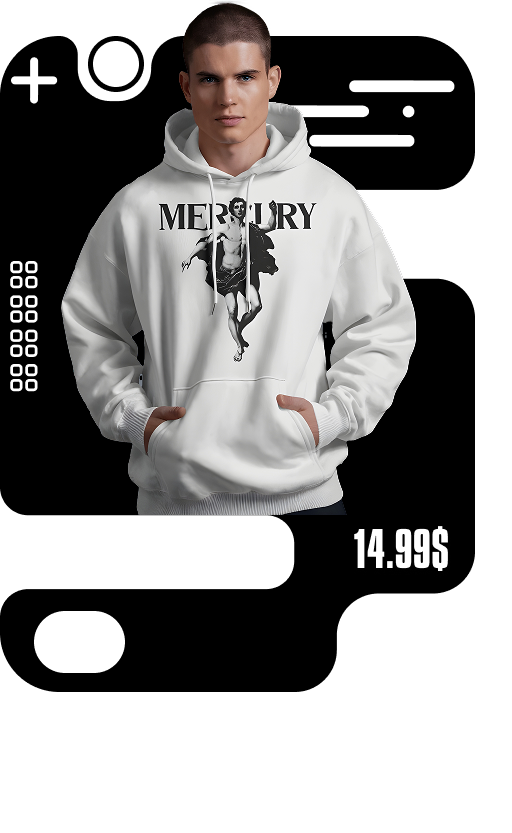
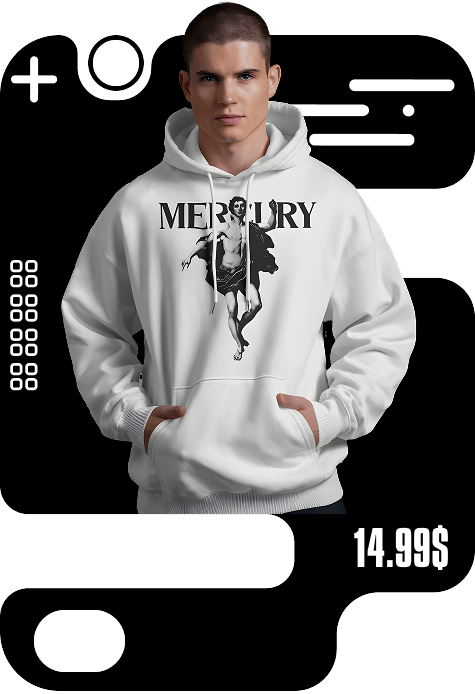
add product card 1

diff --git a/my-ecommerce-app/components/Collection/Collection.tsx b/my-ecommerce-app/components/Collection/Collection.tsx
@@ -1,25 +1,49 @@
 "use client";
-import { useState } from "react";
+import { useState, useEffect } from "react";
 import Image from "next/image";
+import { useRouter } from "next/navigation";
 import { motion, AnimatePresence } from "framer-motion";
 
 const products = [
-  { id: 1, image: "/shop/card1.png", price: "$14.99" },
-  { id: 2, image: "/shop/card1.png", price: "$19.99" },
-  { id: 3, image: "/shop/card1.png", price: "$24.99" },
+  { id: 1, image: "/shop/card1.png", price: "14.99$" },
+  { id: 2, image: "/shop/card1.png", price: "19.99$" },
+  { id: 3, image: "/shop/card1.png", price: "24.99$" },
+  { id: 4, image: "/shop/card1.png", price: "29.99$" },
+  { id: 5, image: "/shop/card1.png", price: "34.99$" },
 ];
 
 const Collection: React.FC = () => {
+  const router = useRouter(); // ✅ Next.js router for navigation
   const [selectedIndex, setSelectedIndex] = useState(0);
+  const [selectedSize, setSelectedSize] = useState<{ [key: number]: string }>({});
+  const [bookmarked, setBookmarked] = useState<{ [key: number]: boolean }>({});
+  const [cart, setCart] = useState<number[]>([]);
 
-  const nextProduct = () => {
-    setSelectedIndex((prevIndex) => (prevIndex + 1) % products.length);
+  // Auto-change product every 5 seconds
+  useEffect(() => {
+    const interval = setInterval(() => {
+      setSelectedIndex((prevIndex) => (prevIndex + 1) % products.length);
+    }, 5000);
+
+    return () => clearInterval(interval);
+  }, []);
+
+  const handleAddToCart = (productId: number) => {
+    setCart((prevCart) => [...prevCart, productId]);
+    console.log("Added to Cart:", productId, "Size:", selectedSize[productId] || "None");
   };
 
-  const prevProduct = () => {
-    setSelectedIndex((prevIndex) =>
-      prevIndex === 0 ? products.length - 1 : prevIndex - 1
-    );
+  const handleSizeSelect = (productId: number, size: string) => {
+    setSelectedSize((prev) => ({ ...prev, [productId]: size }));
+  };
+
+  const toggleBookmark = (productId: number) => {
+    setBookmarked((prev) => ({ ...prev, [productId]: !prev[productId] }));
+  };
+
+  // ✅ Click function to navigate to product page
+  const handleProductClick = (productId: number) => {
+    router.push(`/product/${productId}`); // Navigate to product details page
   };
 
   return (
@@ -31,71 +55,131 @@ const Collection: React.FC = () => {
 
       {/* Product Selection Container */}
       <div className="relative w-full flex items-center justify-center">
-        {/* Left Button */}
-        <button
-          className="absolute left-4 z-20 px-4 py-2 bg-black text-white rounded-full"
-          onClick={prevProduct}
-        >
-          ◀
-        </button>
-
-        {/* Card Container */}
-        <div className="relative w-full max-w-lg h-[500px] flex items-center justify-center">
+        <div className="relative w-full max-w-lg h-[500px] flex items-center justify-center mt-10 perspective-1000">
           <AnimatePresence>
             {products.map((product, index) => {
-              const position =
-                (index - selectedIndex + products.length) % products.length;
+              const position = (index - selectedIndex + products.length) % products.length;
 
               let scale = 1;
               let zIndex = 1;
-              let opacity = 1;
+              let opacity = 0;
               let xOffset = 0;
+              let rotation = 0;
+              let showButtons = false;
 
               if (position === 0) {
-                scale = 1.2; // Center card is bigger
+                scale = 1.2;
                 zIndex = 10;
-              } else if (position === 1 || position === products.length - 1) {
-                scale = 0.9; // Side cards are smaller
-                zIndex = 5;
+                opacity = 1;
+                showButtons = true;
+                rotation = 0;
+              } else if (position === 1) {
+                scale = 0.9;
+                zIndex = 6;
                 opacity = 0.6;
-                xOffset = position === 1 ? 120 : -120; // Left & Right Offset
+                xOffset = -260;
+                rotation = -5;
+                showButtons = true;
+              } else if (position === 2) {
+                scale = 0.9;
+                zIndex = 6;
+                opacity = 0.6;
+                xOffset = 260;
+                rotation = 5;
+                showButtons = true;
               }
 
               return (
                 <motion.div
                   key={product.id}
-                  initial={{ opacity: 0, scale: 0.8 }}
+                  initial={{ opacity: 0, scale: 0.8, rotateY: -30 }}
                   animate={{
                     opacity,
                     scale,
                     x: xOffset,
                     zIndex,
+                    rotateY: rotation,
                   }}
-                  exit={{ opacity: 0, scale: 0.8 }}
-                  transition={{ duration: 0.5, ease: "easeInOut" }}
-                  className="absolute flex flex-col items-center"
+                  exit={{ opacity: 0, scale: 0.8, rotateY: 30 }}
+                  transition={{ duration: 0.8, ease: "easeInOut", bounce: 0.3 }}
+                  className="absolute flex flex-col items-center cursor-pointer"
+                  onClick={() => handleProductClick(product.id)} // ✅ Click event
                 >
-                  <Image
-                    src={product.image}
-                    alt="Product Image"
-                    width={300}
-                    height={400}
-                    className="rounded-lg "
-                  />
-                  <div className="mt-4 text-xl font-bold">{product.price}</div>
+                  <div className="relative">
+                    <Image
+                      src={product.image}
+                      alt="Product Image"
+                      width={350}
+                      height={450}
+                      className="rounded-lg shadow-lg"
+                    />
+
+                    {/* Price Tag */}
+                    <div className="absolute top-3 right-3 bg-black text-white px-3 py-1 text-lg font-bold rounded">
+                      {product.price}
+                    </div>
+
+                    {/* Size Selection Buttons */}
+                    {showButtons && (
+                      <div className="absolute bottom-[85px] left-[25px] flex space-x-2">
+                        {["S", "M", "L"].map((size) => (
+                          <button
+                            key={size}
+                            onClick={(e) => {
+                              e.stopPropagation(); // Prevent click from triggering page navigation
+                              handleSizeSelect(product.id, size);
+                            }}
+                            className={`w-12 h-10 flex items-center justify-center text-sm font-bold border-2 rounded-full transition ${
+                              selectedSize[product.id] === size
+                                ? "bg-black text-white"
+                                : "border-black text-black bg-white"
+                            }`}
+                          >
+                            {size}
+                          </button>
+                        ))}
+                      </div>
+                    )}
+
+                    {/* Bookmark Button */}
+                    {showButtons && (
+                      <button
+                        onClick={(e) => {
+                          e.stopPropagation();
+                          toggleBookmark(product.id);
+                        }}
+                        className="absolute bottom-[28px] left-[45px] w-6 h-6 flex items-center justify-center transition"
+                      >
+                        <Image
+                          src={bookmarked[product.id] ? "/icon/mark.png" : "/icon/mark1.png"}
+                          alt="Bookmark"
+                          width={40}
+                          height={40}
+                        />
+                      </button>
+                    )}
+
+                    {/* Cart Button */}
+                    {showButtons && (
+                      <motion.button
+                        onClick={(e) => {
+                          e.stopPropagation();
+                          handleAddToCart(product.id);
+                        }}
+                        initial={{ opacity: 0 }}
+                        animate={{ opacity: 1 }}
+                        transition={{ duration: 0.5 }}
+                        className="absolute bottom-1 right-3 px-6 py-4 bg-green-500 text-white text-sm font-bold rounded-full transition hover:bg-green-700 flex items-center justify-center"
+                      >
+                        <Image src="/icon/cart1.png" alt="Cart" width={24} height={24} />
+                      </motion.button>
+                    )}
+                  </div>
                 </motion.div>
               );
             })}
           </AnimatePresence>
         </div>
-
-        {/* Right Button */}
-        <button
-          className="absolute right-4 z-20 px-4 py-2 bg-black text-white rounded-full"
-          onClick={nextProduct}
-        >
-          ▶
-        </button>
       </div>
     </div>
   );

diff --git a/my-ecommerce-app/app/product/[id]/page.tsx b/my-ecommerce-app/app/product/[id]/page.tsx
@@ -1,0 +1,147 @@
+"use client";
+import { useState, useRef } from "react";
+import { useParams } from "next/navigation";
+import Image from "next/image";
+import Navbar from "@/app/NavBar/Navbar";
+
+const products = [
+  { id: 1, image: "/shop/card1.png", detailImage: "/shop/detail1.png", name: "Mercury Long Sleeve Sweatshirt", price: "14.99$", stock: 10, type: "Sweatshirt" },
+  { id: 2, image: "/shop/card2.png", detailImage: "/shop/detail2.png", name: "Black Hoodie", price: "19.99$", stock: 8, type: "Hoodie" },
+  { id: 3, image: "/shop/card3.png", detailImage: "/shop/detail3.png", name: "Gray Oversized Sweatshirt", price: "24.99$", stock: 5, type: "Sweatshirt" },
+  { id: 4, image: "/shop/card4.png", detailImage: "/shop/detail4.png", name: "Streetwear Hoodie", price: "29.99$", stock: 3, type: "Hoodie" },
+  { id: 5, image: "/shop/card5.png", detailImage: "/shop/detail5.png", name: "Minimalist Sweatshirt", price: "34.99$", stock: 7, type: "Sweatshirt" },
+];
+
+const ProductPage = () => {
+  const { id } = useParams();
+  const product = products.find((p) => p.id === Number(id));
+
+  const [selectedSize, setSelectedSize] = useState<string | null>(null);
+  const [quantity, setQuantity] = useState(1);
+  const [isZoomed, setIsZoomed] = useState(false);
+  const [zoomPosition, setZoomPosition] = useState({ x: 50, y: 50 });
+
+  const imageRef = useRef<HTMLDivElement>(null);
+
+  if (!product) {
+    return <div className="text-center text-2xl font-bold">Product Not Found</div>;
+  }
+
+  const handleSizeSelect = (size: string) => {
+    setSelectedSize(size);
+  };
+
+  const handleMouseMove = (e: React.MouseEvent) => {
+    if (!imageRef.current) return;
+
+    const { left, top, width, height } = imageRef.current.getBoundingClientRect();
+    const x = ((e.clientX - left) / width) * 100;
+    const y = ((e.clientY - top) / height) * 100;
+    setZoomPosition({ x, y });
+  };
+
+  return (
+    <>
+      {/* Navbar */}
+      <Navbar />
+
+      {/* Product Page Content */}
+      <div className="container mx-auto px-6 py-10 mt-16">
+        <div className="grid grid-cols-1 lg:grid-cols-2 gap-10">
+          
+          {/* Left Side - Product Image with Zoom */}
+          <div className="relative flex flex-col items-center bg-gray-100 pt-6 pr-5 rounded-lg shadow-md max-w-[400px] mx-auto">
+            <div
+              className="relative"
+              ref={imageRef}
+              onMouseEnter={() => setIsZoomed(true)}
+              onMouseLeave={() => setIsZoomed(false)}
+              onMouseMove={handleMouseMove}
+            >
+              <Image
+                src={product.detailImage}
+                alt={product.name}
+                width={400}
+                height={500}
+                className="rounded-lg"
+              />
+
+              {/* Zoom Box - Increased Zoom Effect */}
+              {isZoomed && (
+                <div
+                  className="absolute w-40 h-40 border-2 border-gray-400 shadow-lg bg-white pointer-events-none"
+                  style={{
+                    top: `${zoomPosition.y}%`,
+                    left: `${zoomPosition.x}%`,
+                    transform: "translate(-50%, -50%)",
+                    backgroundImage: `url(${product.detailImage})`,
+                    backgroundSize: "400%", // Increased Zoom Level
+                    backgroundPosition: `${zoomPosition.x}% ${zoomPosition.y}%`,
+                  }}
+                />
+              )}
+            </div>
+          </div>
+
+          {/* Right Side - Product Details */}
+          <div className="flex flex-col font-kano">
+            <h1 className="text-4xl font-normal font-kano">{product.name}</h1>
+            <p className="text-3xl font-semibold text-gray-700 mt-2">{product.price}</p>
+            <p className=" text-xl text-gray-500 mt-2">Type: {product.type}</p>
+            <p className="font-Kano text-xl text-gray-500">Stock: {product.stock} Left</p>
+
+            {/* Size Selection */}
+            <div className="mt-4">
+              <h3 className="text-lg font-semibold">SIZE:</h3>
+              <div className="flex space-x-4 mt-2">
+                {["S", "M", "L"].map((size) => (
+                  <button
+                    key={size}
+                    onClick={() => handleSizeSelect(size)}
+                    className={`w-14 h-10 flex items-center justify-center text-sm font-bold border-2 rounded-full transition ${
+                      selectedSize === size ? "bg-black text-white" : "border-black text-black bg-white"
+                    }`}
+                  >
+                    {size}
+                  </button>
+                ))}
+              </div>
+            </div>
+
+            {/* Quantity Selector */}
+            <div className="mt-6">
+              <h3 className="text-lg font-semibold">QTY:</h3>
+              <div className="flex items-center space-x-4 mt-2">
+                <button
+                  onClick={() => setQuantity((prev) => Math.max(1, prev - 1))}
+                  className="px-3 py-1 bg-gray-200 rounded-md text-lg "
+                >
+                  -
+                </button>
+                <span className="text-lg">{quantity}</span>
+                <button
+                  onClick={() => setQuantity((prev) => prev + 1)}
+                  className="px-3 py-1 bg-gray-200 rounded-md text-lg"
+                >
+                  +
+                </button>
+              </div>
+            </div>
+
+            {/* Buttons */}
+            <div className="mt-10 flex space-x-4">
+              <button className="px-6 py-3 bg-blue-600 text-white text-lg rounded-md hover:bg-blue-700 transition">
+                BUY
+              </button>
+              <button className="px-6 py-3 bg-gray-800 text-white text-lg rounded-md hover:bg-gray-900 transition">
+                ADD TO CART
+              </button>
+            </div>
+          </div>
+        </div>
+      </div>
+    </>
+  );
+};
+
+export default ProductPage;

diff --git a/my-ecommerce-app/app/NavBar/Navbar.tsx b/my-ecommerce-app/app/NavBar/Navbar.tsx
@@ -61,7 +61,7 @@ export default function Nav() {
       <Link href="/cart">
       <span className="text-[22.75px] font-normal text-black cursor-pointer relative group">
         CART
-        <span className="absolute bottom-0 left-0 w-0 h-0.5 bg-black transition-all duration-300 group-hover:w-full"></span>
+        <span className="absolute bottom-0 left-0 w-0 h-0.5 mt-4 bg-black transition-all duration-300 group-hover:w-full"></span>
       </span>
     </Link>
     </div>

diff --git a/my-ecommerce-app/app/page.tsx b/my-ecommerce-app/app/page.tsx
@@ -37,10 +37,6 @@ export default function HomePage() {
           <Address />
         </div>
 
-        {/* Cart Section - Fixed */}
-        <div className="container mx-auto p-6">
-          <Cart />
-        </div>
 
         <div><LoginPage/></div>
       </main>
